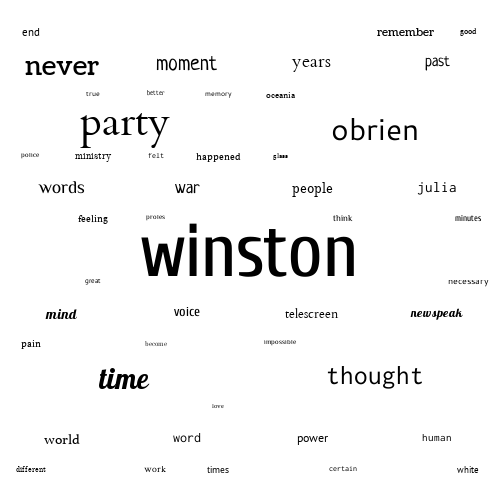
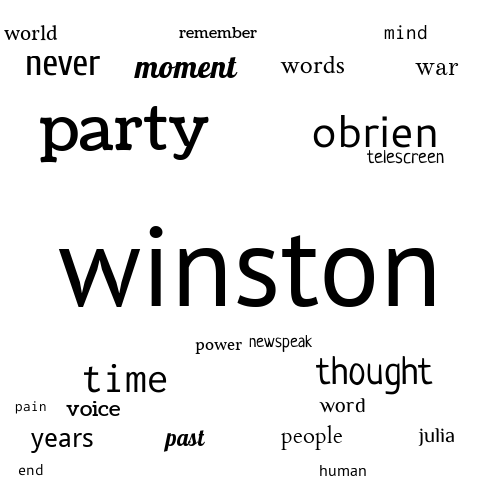
Added user input + output messages to output file generation

diff --git a/main.py b/main.py
@@ -1,33 +1,27 @@
 import os
+from input import user_input_filename, user_input_integer
 from wordcloud.stopwords import set_stopwords
 from wordcloud.vocabulary import create_vocab
 from wordcloud.grid import GridGenerator, center_word_in_square
 from wordcloud.cloud import place_words
 
-# INPUT DATA FILE PATHS
-STOPWORDS_DATA_PATH = os.path.abspath(os.path.join(os.path.dirname( __file__ ), '.', 'lang', 'stopwords.txt'))
-INPUT_DATA_PATH = os.path.abspath(os.path.join(os.path.dirname( __file__ ), '.', 'input', 'data.txt'))
+STOPWORDS_DATA_PATH = os.path.abspath(os.path.join(os.path.dirname( __file__ ), '.', 'lang', 'stopwords.txt'))  # path to stopwords file
 
+# Collect input parameters from user
 print("Welcome to WordCloud Generator!")
-print("------------------------------")
-
-
-# WORD CLOUD SETTINGS FOR OUTPUT IMAGE
-NUM_WORDS = 24
-IMAGE_DIM = 500
-
-# TO DO
-# input params
+input_file = user_input_filename("Please enter the .txt file to generate the WordCloud image for")
+num_words = user_input_integer("Please enter the # of words to try to place in the WordCloud", 5, 100)
+image_dim = user_input_integer("Please enter the dimension of the image to generate (e.g. 500 for a 500x500 img)", 100, 1000)
 
 # NORMALIZE INPUT DATA FROM FILE AND BUILD WORD DICT
 stopwords = set_stopwords(STOPWORDS_DATA_PATH)
-vocab = create_vocab(NUM_WORDS, INPUT_DATA_PATH, stopwords)
+print("\nGenerated vocabulary:")
+vocab = create_vocab(num_words, input_file, stopwords)
 
 # Generates grid of grids and coords of potential positions to place words on these grids
-grid_gen = GridGenerator(IMAGE_DIM, IMAGE_DIM, NUM_WORDS)
+grid_gen = GridGenerator(image_dim, image_dim, num_words)
 grid_gen.draw_grid()
 grid = grid_gen.get_grid()
-
 
 # CREATES WORDLCOUD
 WC_IMG_FILEPATH = os.path.abspath(os.path.join(os.path.dirname( __file__ ), '..', 'output', 'wordcloud.png'))   

diff --git a/input.py b/input.py
@@ -1,0 +1,23 @@
+# Allows you to prompt the user for a filename (string input) and returns the path providing the file exists
+import os
+def user_input_filename(prompt):
+    value = ""
+    while value == "":
+        print("\n%s: " % prompt)
+        value = input()
+        if os.path.isfile('./input/' + str(value)):
+            return './input/' + str(value)
+        else:
+            print("Invalid file name! (ensure the photo is in the input folder)")
+            value = ''
+
+# Allows you to prompt the user for an integer input between a lower and upper bound
+def user_input_integer(prompt, lower_b, upper_b):
+    value = -1
+    while value == -1:
+        print("\n%s between %d - %d: " % (prompt, lower_b, upper_b))
+        value = int(input())
+        if value >= lower_b and value <= upper_b:
+            return value
+        else:
+            value = -1

diff --git a/wordcloud/cloud.py b/wordcloud/cloud.py
@@ -59,7 +59,10 @@ def place_words(vocab, grid, grid_gen, wc_img_path=WC_IMG_FILEPATH, wc_bounds_im
 
     # Save output images
     WC_BOUNDS_IMG.save(wc_bounds_img_path)
+    print("\nSaved image of word bounds: %s" % wc_bounds_img_path)
+
     WC_IMG.save(wc_img_path)
+    print("\nSaved image of Word Cloud: %s" % wc_img_path)
 
 # RANDOMLY SELECT RANDOM FONT PATH
 def get_random_font_path():

diff --git a/wordcloud/grid.py b/wordcloud/grid.py
@@ -42,6 +42,7 @@ class GridGenerator:
                     num_drawn += 1
                     break
         GRID_IMG.save(grid_path)
+        print("\nSaved image of grid: %s" % grid_path)
 
     def get_grid(self):
         return self.grid
